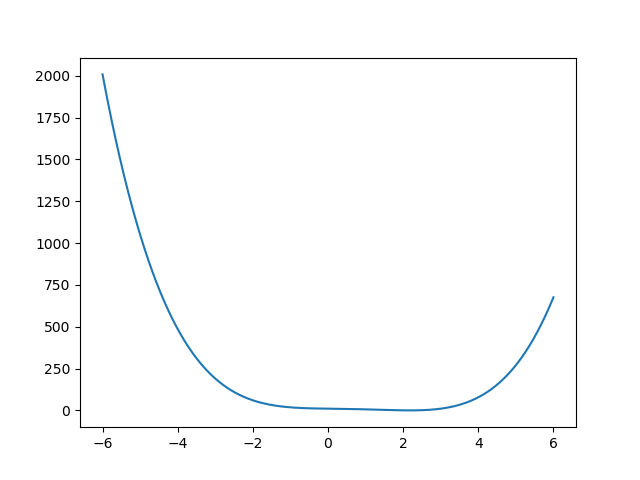
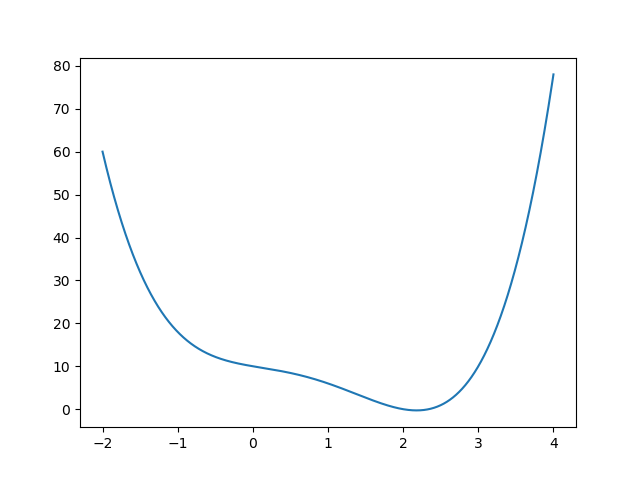
finished pt5

diff --git a/wk2/pt5.py b/wk2/pt5.py
@@ -1,7 +1,7 @@
 import matplotlib.pyplot as plt
 import numpy as np
-a = -6
-b = 6
+a = -2
+b = 4
 c = 100000
 X = np.linspace(a,b, num = c)
 Y = lambda x: x**4 - 3*x**3 + x**2 - 3*x + 10
